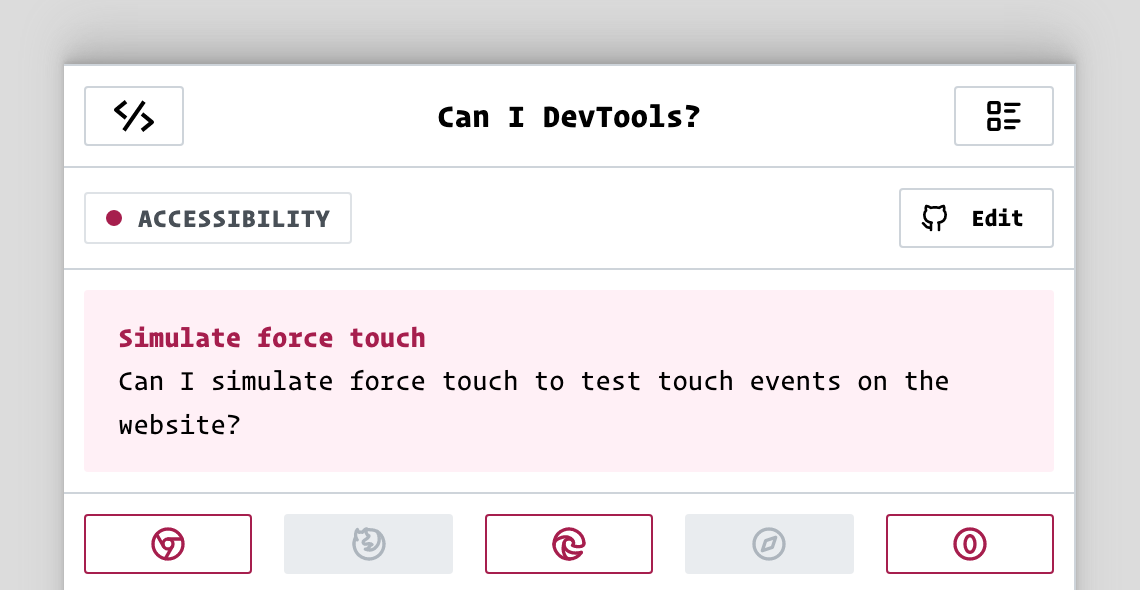
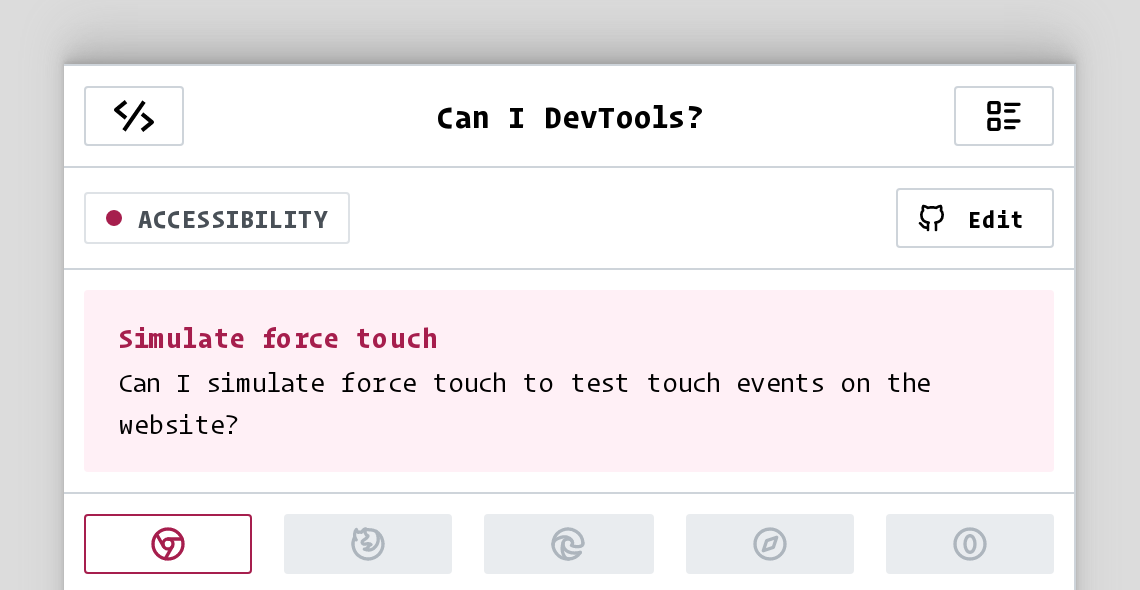
Using github codespaces

diff --git a/README.md b/README.md
@@ -1447,12 +1447,6 @@ console.table([
 - [Chrome](https://canidev.tools/simulate-force-touch/chrome) 
  1. Open **Command** **Menu** (`Cmd+Shift+P` or `Ctrl+Shift+P`) > Run "Show Sensors" > Press `Enter`. This will open the **Sensors** drawer at the bottom of the Devtools panel.
 2. Under the **Touch** drop-down list, select **Force touch** > Reload Devtools.
-- [Edge](https://canidev.tools/simulate-force-touch/edge) 
- 1. Open **Command** **Menu** (`Cmd+Shift+P` or `Ctrl+Shift+P`) > Run "Show Sensors" > Press `Enter`. This will open the **Sensors** drawer at the bottom of the Devtools panel.
-2. Under the **Touch** drop-down list, select "Force touch" > Reload Devtools.
-- [Opera](https://canidev.tools/simulate-force-touch/opera) 
- 1. Open **Command** **Menu** (`Cmd+Shift+P` or `Ctrl+Shift+P`) > Run "Show Sensors" > Press `Enter`. This will open the **Sensors** drawer at the bottom of the Devtools panel.
-2. Under the **Touch** drop-down list, select "Force touch" > Reload Devtools.
 ## 102. Simulate vision deficiencies 
  Can I simulate vision deficiencies like blurred visions, color blindness etc? 
 - [Chrome](https://canidev.tools/simulate-vision-deficiencies/chrome) 
